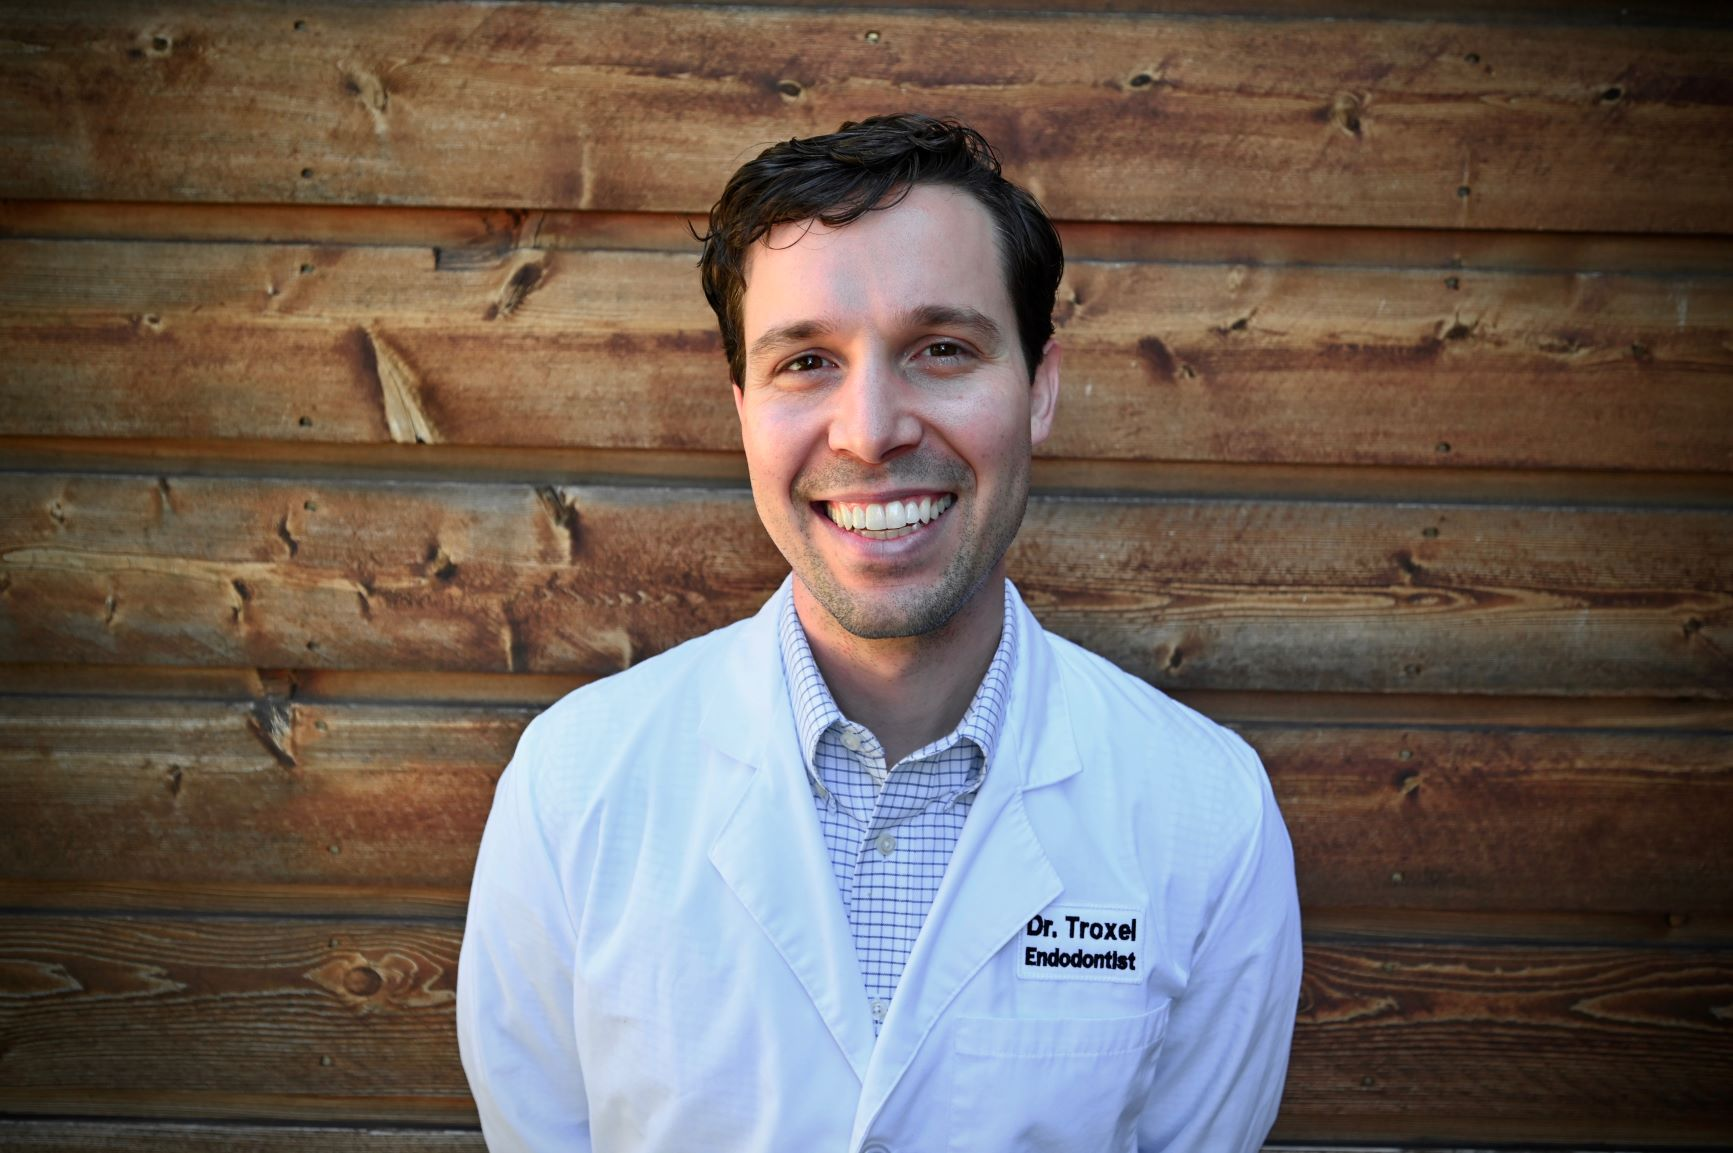
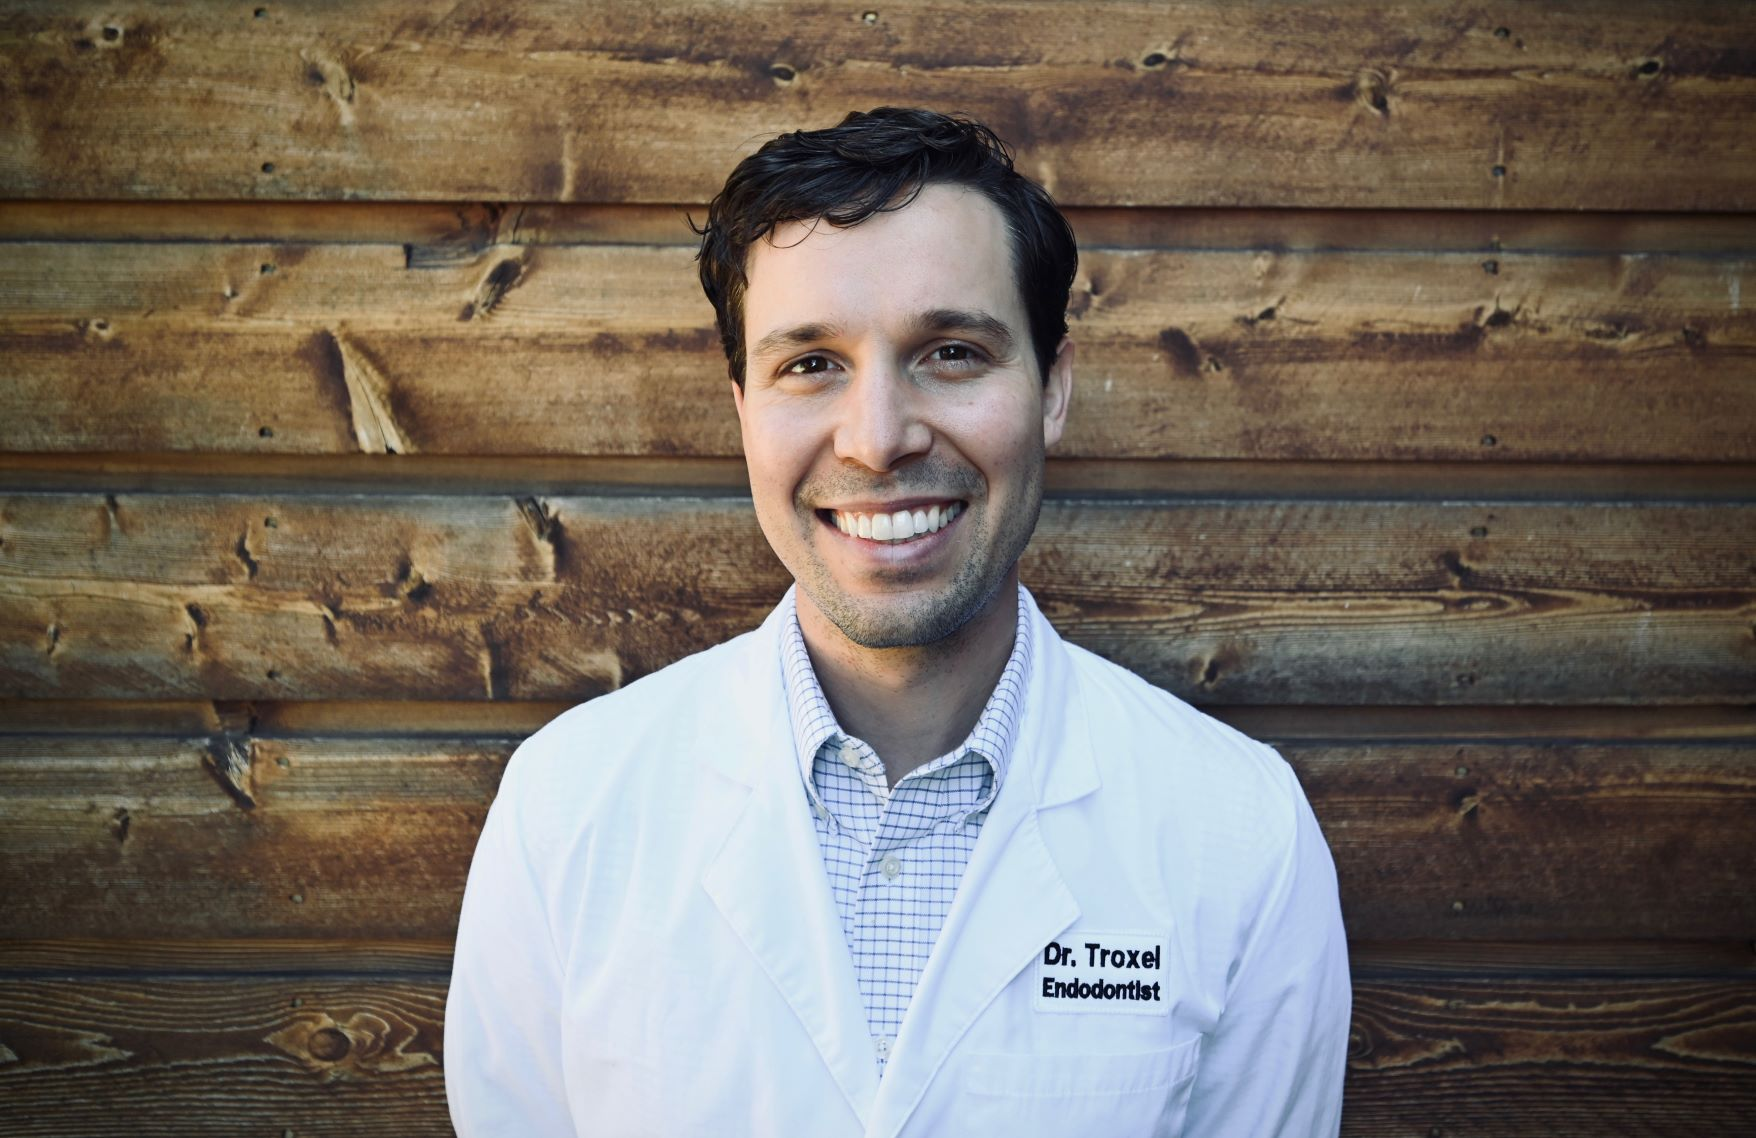
run through images

diff --git a/docs/contact.html b/docs/contact.html
@@ -5,7 +5,7 @@ title: Contact
 
 <section class="section">
   <h1 class="title">Contact Dr. Troxel</h1>
-  <img src="/img/DSC_5057.jpeg" style="width:100%;" alt="Dr. Troxel"/>
+  <img src="/img/DrTroxel.jpeg" style="width:100%;" alt="Dr. Troxel"/>
   <hr />
   <div class="content">
     <h2>Phone</h2>
